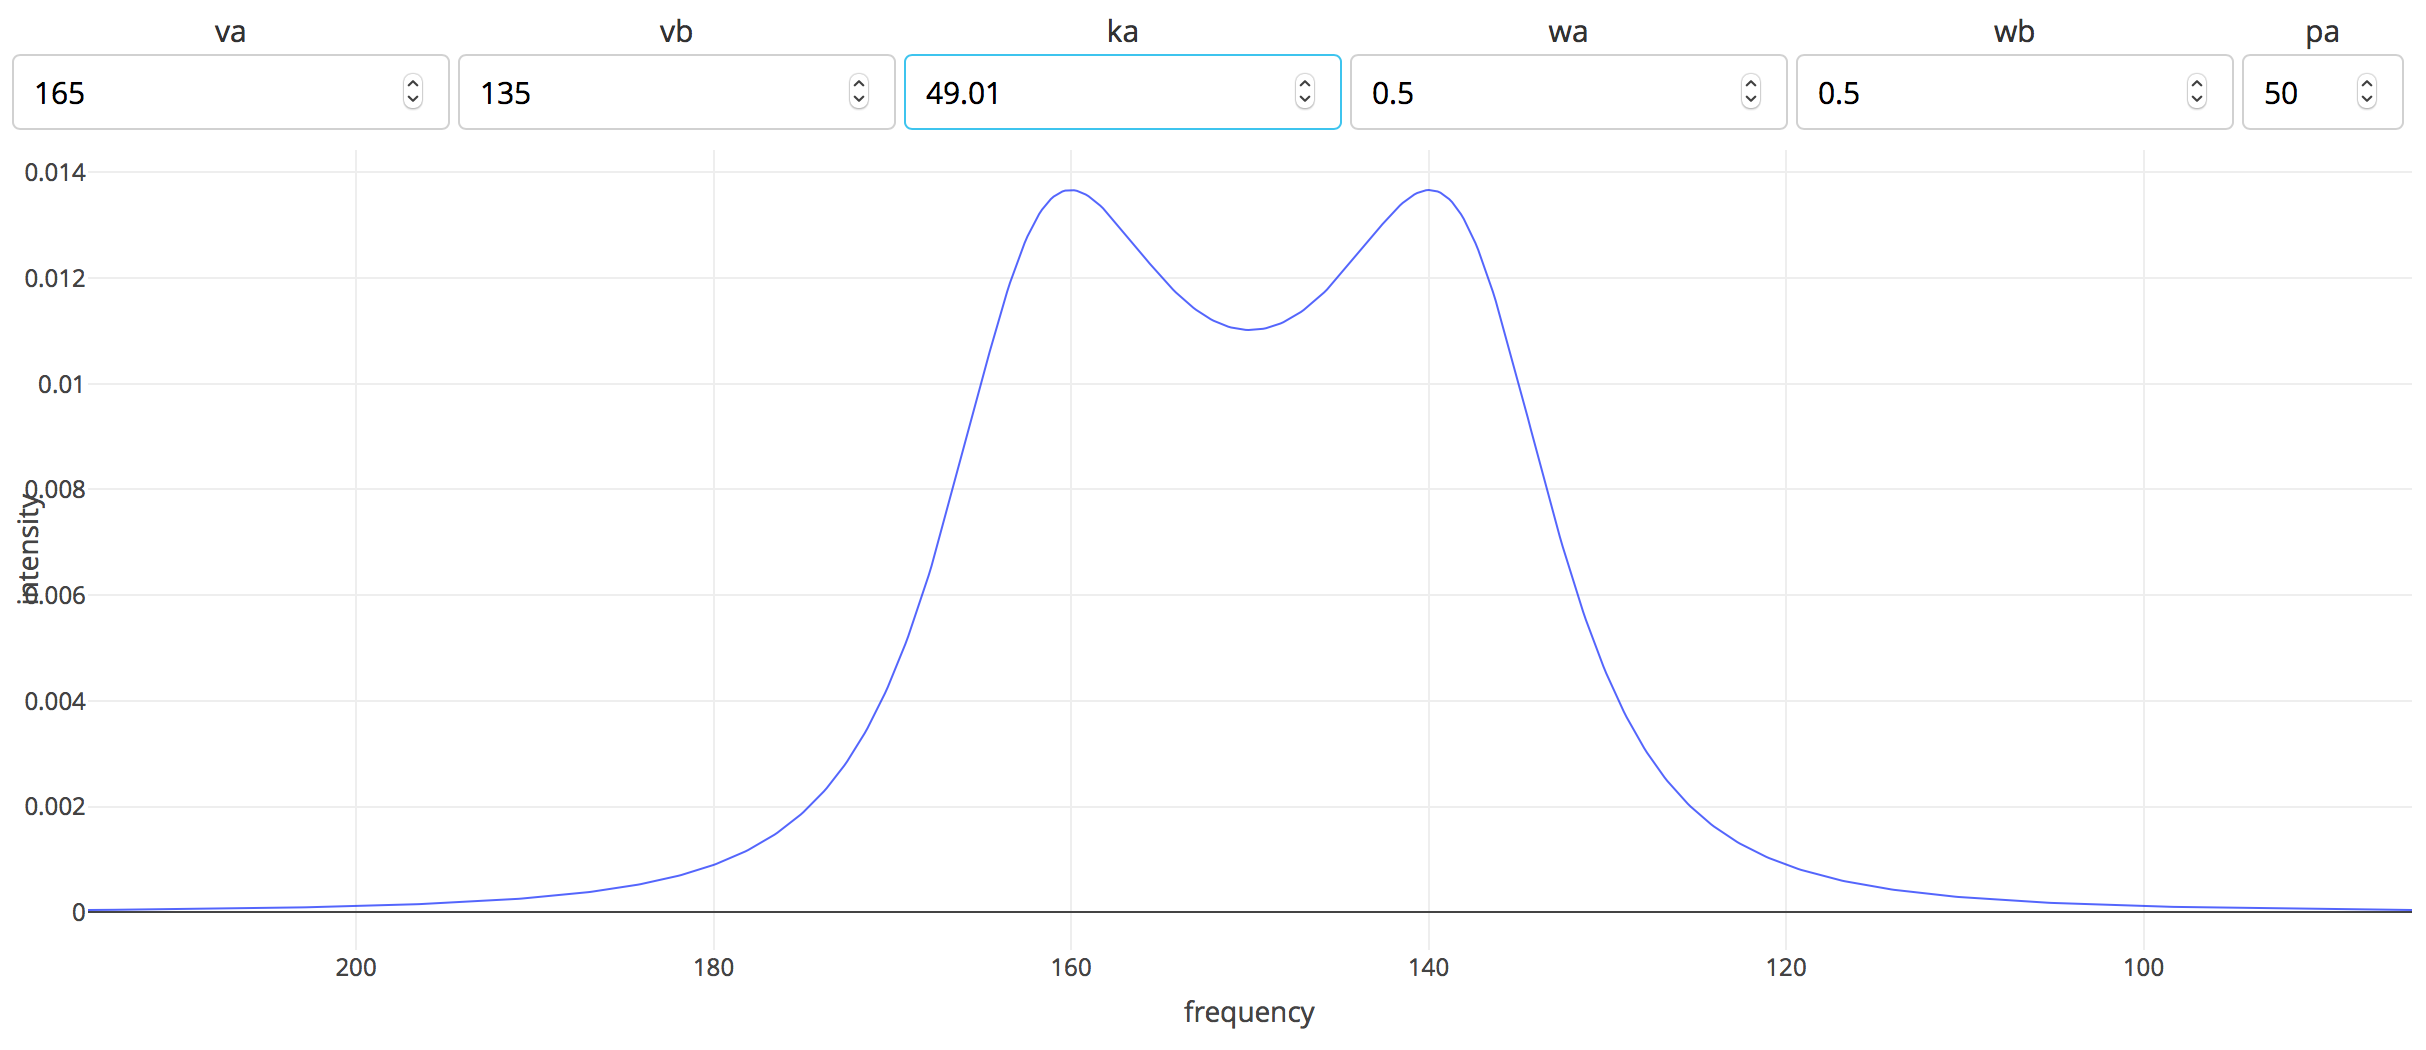
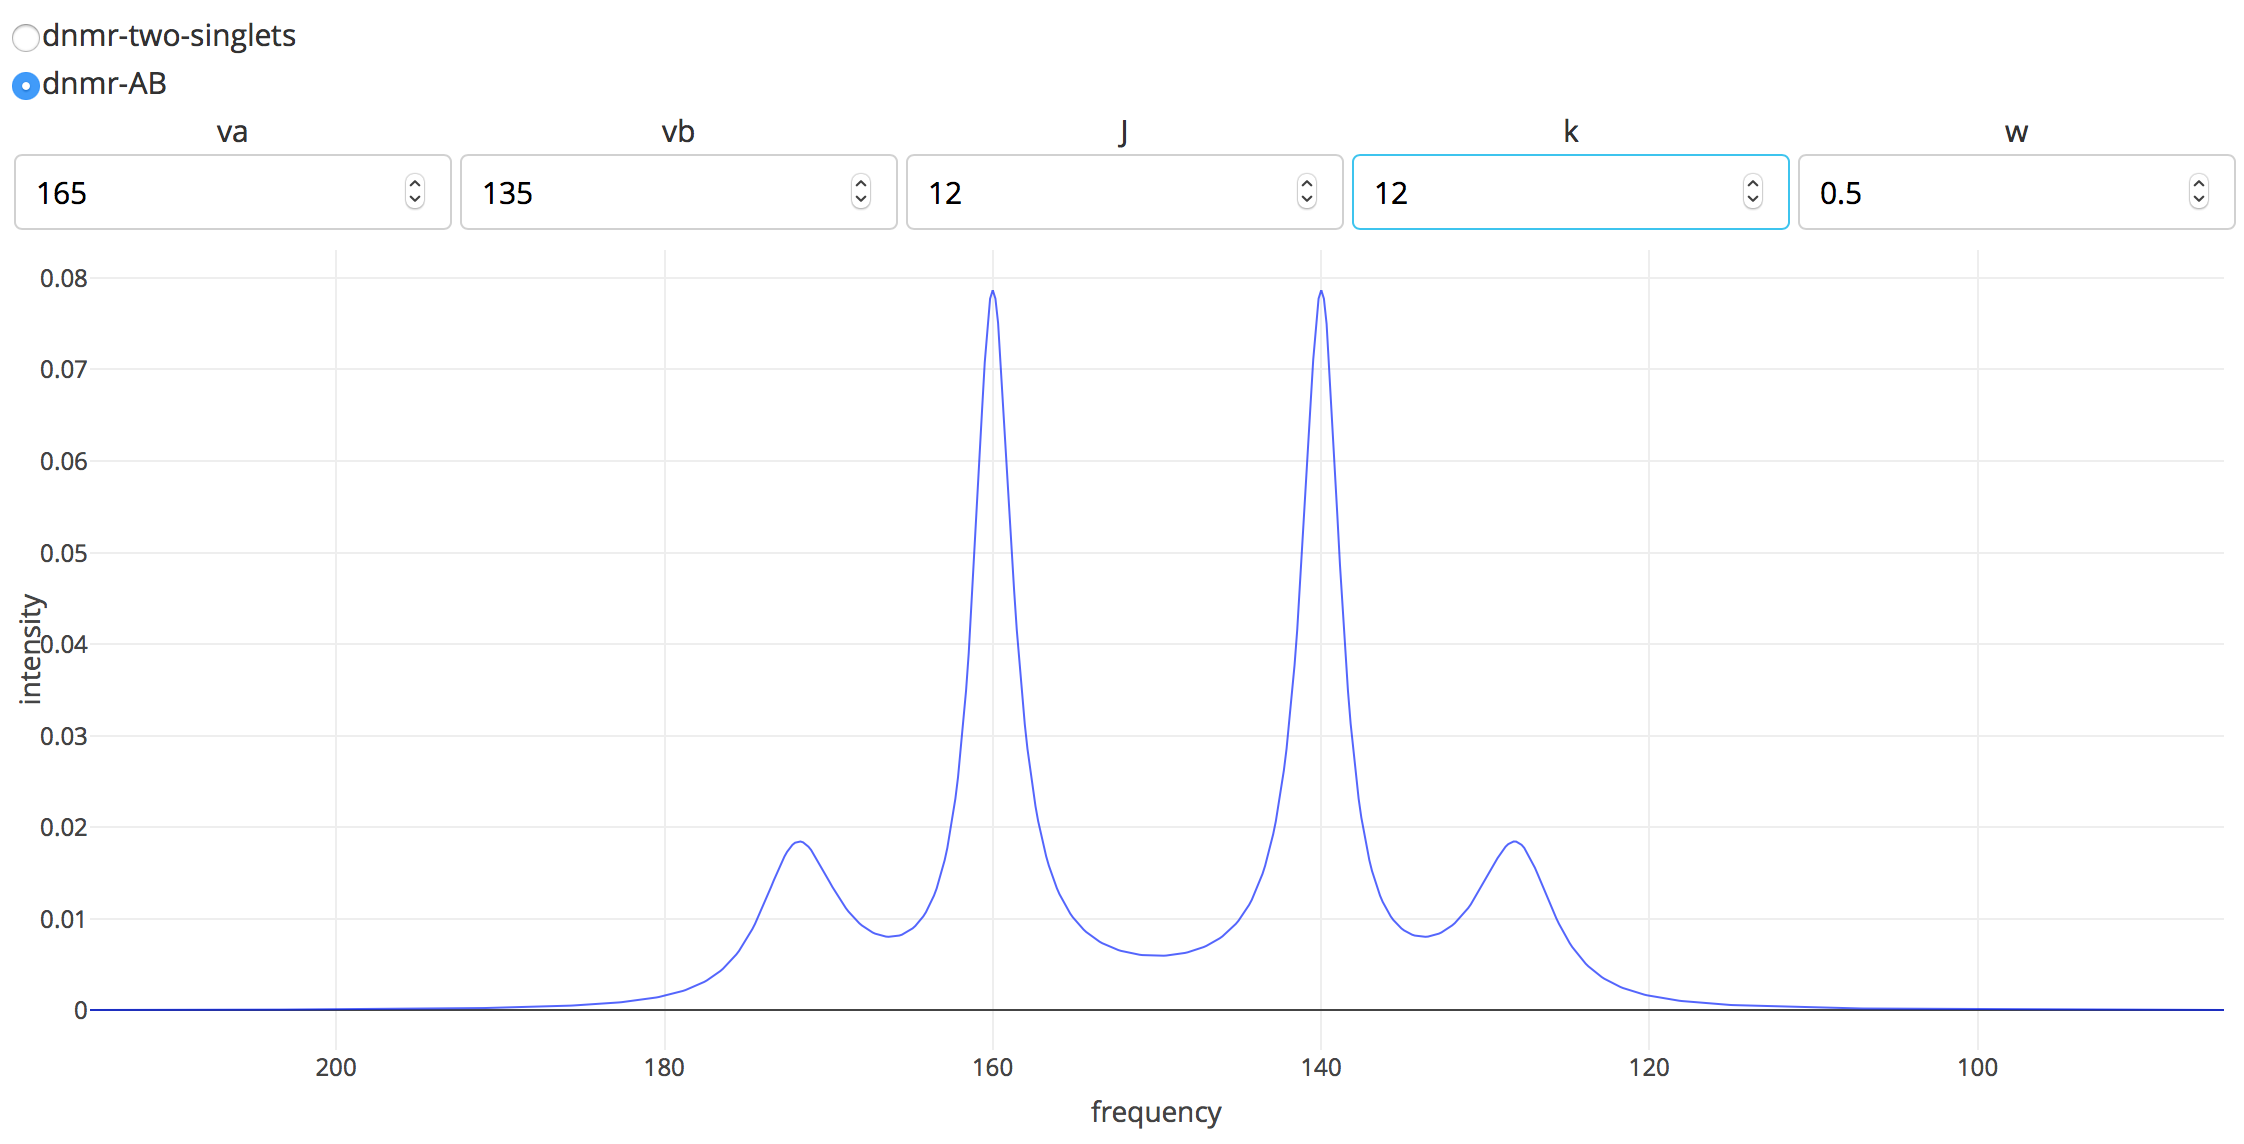
Updated screenshot, README, CHANGELOG.

diff --git a/CHANGELOG.rst b/CHANGELOG.rst
@@ -21,6 +21,14 @@ The format is inspired by `Keep a Changelog <http://keepachangelog.com/en/0.3.0/
 * **Version 1.0.0 release**: a minimal app suitable for educational use and not requiring execution from the command line interface.
 
 
+0.2.0 - 2017-11-03
+------------------
+
+Added
+^^^^^
+
+* Both uncoupled and coupled (AB) two-spin simulations are implemented.
+
 0.1.0 - 2017-11-01 (pre-alpha release)
 --------------------------------------
 

diff --git a/README.rst b/README.rst
@@ -1,11 +1,9 @@
-pyDNMR-Web v0.1.0 (pre-alpha)
+pyDNMR-Web v0.2.0 (pre-alpha)
 *****************************
 
 .. image:: docs/source/pydnmr_web_screenshot.png
 
 A port of pyDNMR to a web application, using Dash by plot.ly.
-
-Currently in development.
 
 Link to the pyDNMR project, which includes stand-alone executable applications
 for Windows and OS X, here_.
